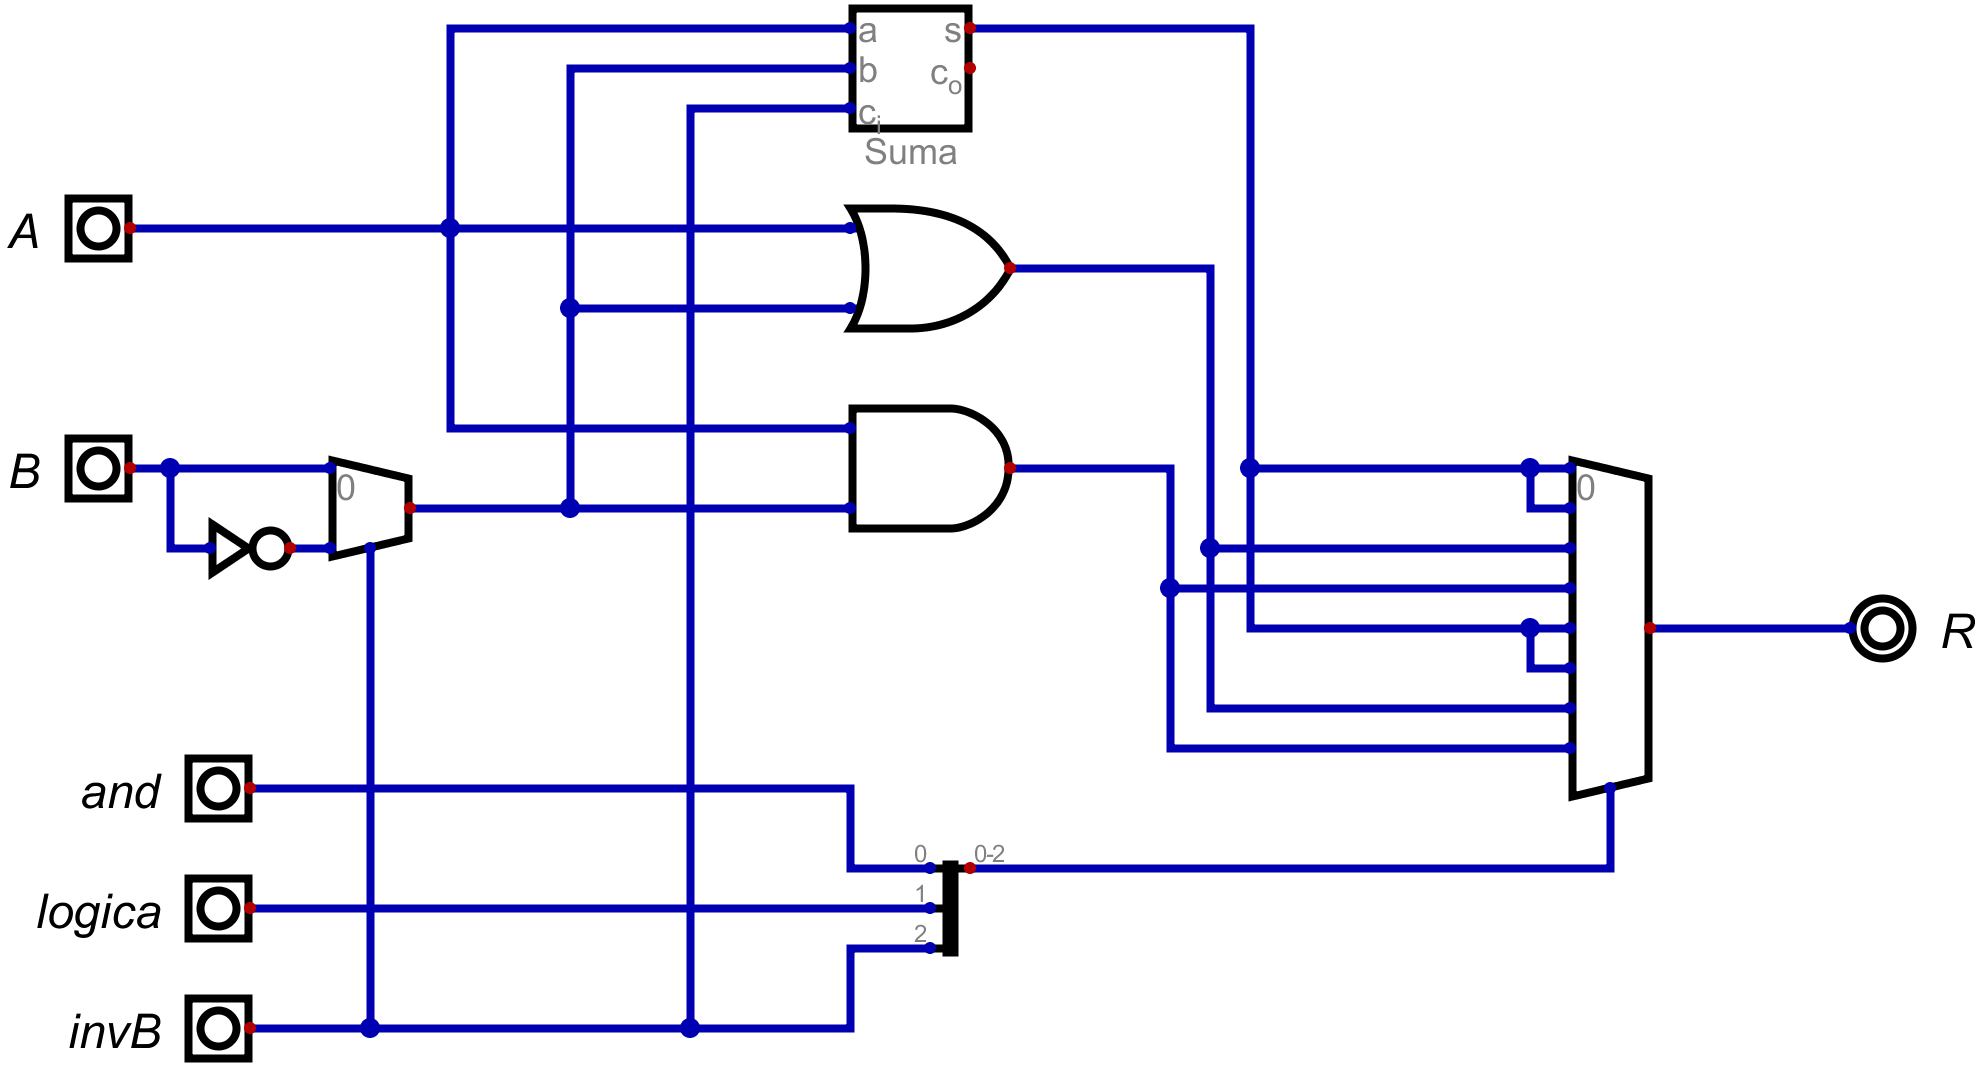
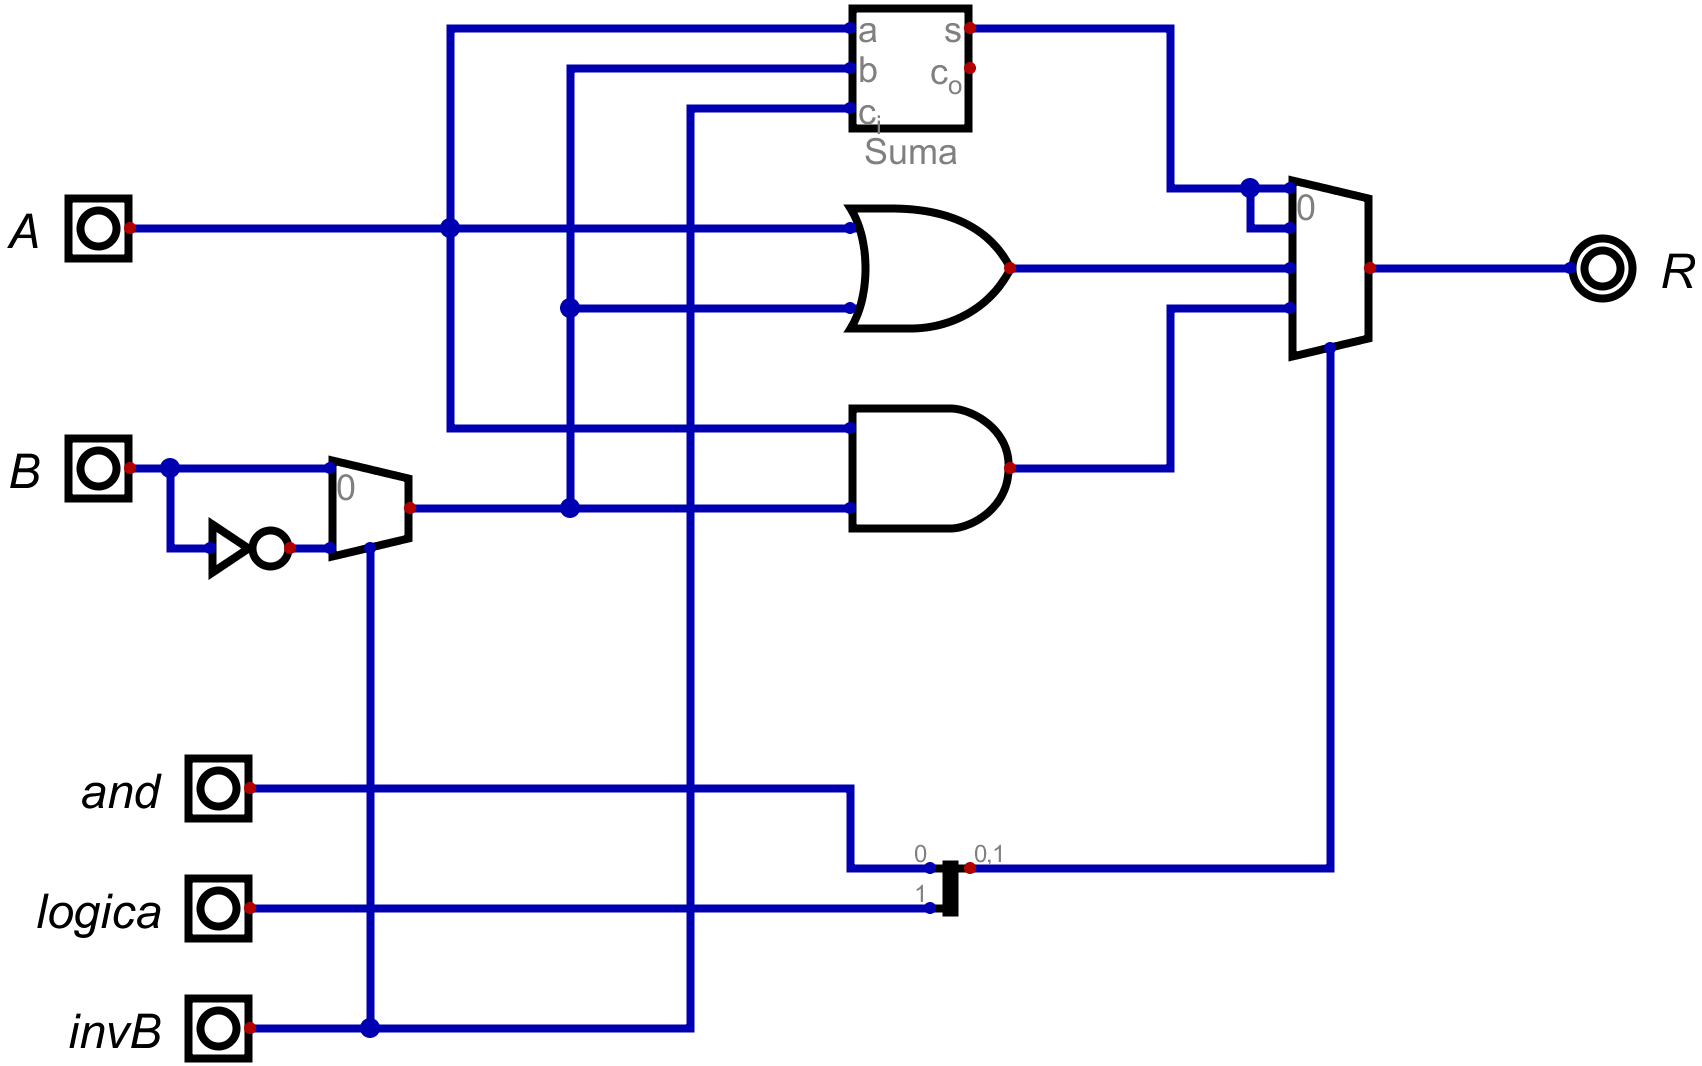
Corrección Completa de ALU

diff --git a/informe_unidad_aritmetica_logica.md b/informe_unidad_aritmetica_logica.md
@@ -21,16 +21,21 @@ Como se desea tener un selector que elija la operacion a realizar lo que se hizo
 | 1    | 1   | 0   | A v !B    |
 | 1    | 1   | 1   | A ^ !B    |
 
-Como se poseen 3 bits de selección y el multiplexor del programa digital necesita que estos esten en un bus se utiliza un "Divisor/Agrupador" para unir los bits en un vus de datos, donde el bit superior es *LSB* y el inferior el *MSB*.
+Nota: como se explicará a continuacion se usara un multiplexor con un selector de 2 bits, pues por el metodo de trabajo se puede omitir el bit de invB.
+
+Como se poseen 2 bits de selección y el multiplexor del programa digital necesita que estos estén en un bus se utiliza un "Divisor/Agrupador" para unir los bits en un bus de datos, donde el bit superior es *LSB* y el inferior el *MSB*.
 
 Luego para realizar las operaciones se aprovechó los componentes que provee *Digital*, excepto por el restador. Hay dos operaciones que se deben explicar un poco:
+
 #### Suma
 En este caso, como el programa posee un sumador completo es necesario introducir un cero en *carry*. Para que la operación se realice correctamente.
 #### Resta
 Se utilizo un sumador aprovechando el complemento a dos, como se explica a continuacion:
-(A-B)_C2 = (A)_C2 + (-B)_C2 = (A)_C2 + (B)_C2 + 1
+$$(A-B)_{C2} = (A)_{C2} + (-B)_{C2} = (A)_{C2} + (B)_{C2} + 1$$
 Como el complemento a 2 de un número positivo es el mismo número y el de un número negativo es a su complemento a uno sumarle 1. Como el complemento a 1 se obtiene invirtiendo el número entonces se niega B.
 Entonces lo que se hace es al sumador introducir A,!B y carry = 1 de esta forma se realiza la operación anterior.
+
+Además como se posee un bit que indica cuando B está negado, puede ser usado para la resta y las operaciones lógicas que necesitan *!B*. Por esto se puede omitir el bit invB como selector en el multiplexor, de esta forma se necesita un multiplexor más chico lo que permite ahorrar costos. También se aprovecho para ahorrar compuertas lógicas y un sumador usando un multiplexor que elige entre B y !B según invB. Se conectó las salidas a las entradas del multiplexor de salida de la ALU según corresponde para obtener el relsutado esperado según la tabla dada anteriormente.
 
 
 ## Resultados
